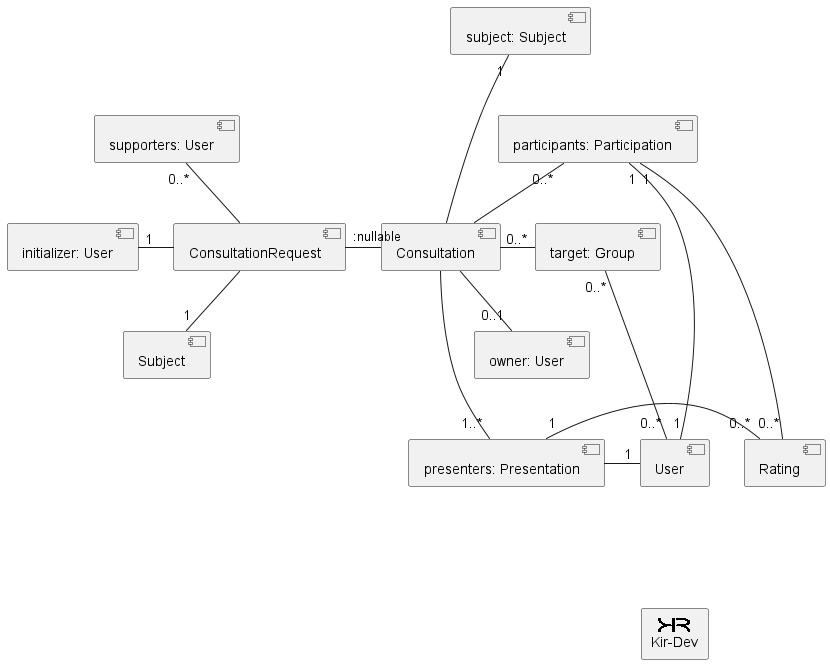
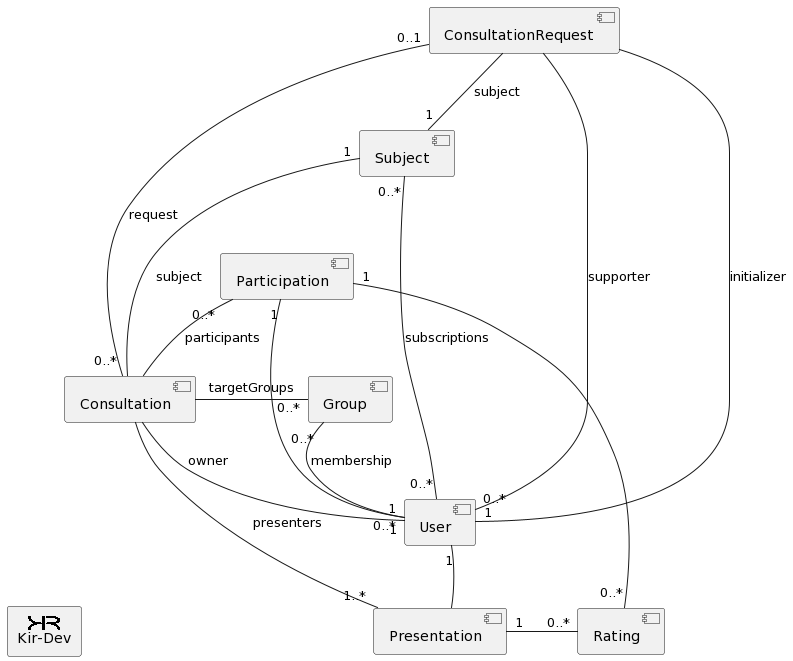
konzi with request validation (#134)
* additional validation

* uml update xd

diff --git a/src/consultations/consultations.controller.ts b/src/consultations/consultations.controller.ts
@@ -137,7 +137,10 @@ export class ConsultationsController {
     @Body() createConsultationDto: CreateConsultationDto,
     @CurrentUser() user: UserEntity,
   ): Promise<ConsultationEntity> {
-    if (createConsultationDto.startDate >= createConsultationDto.endDate) {
+    if (
+      new Date(createConsultationDto.startDate) >=
+      new Date(createConsultationDto.endDate)
+    ) {
       throw new HttpException('Érvénytelen dátum!', HttpStatus.BAD_REQUEST)
     }
     if (createConsultationDto.requestId) {
@@ -150,6 +153,12 @@ export class ConsultationsController {
       ) {
         throw new HttpException(
           'Érvénytelen konzi kérés!',
+          HttpStatus.BAD_REQUEST,
+        )
+      }
+      if (new Date(createConsultationDto.startDate) > request.expiryDate) {
+        throw new HttpException(
+          'A konzi később kezdődne, mint a megvalósított kérés határideje!',
           HttpStatus.BAD_REQUEST,
         )
       }
@@ -171,7 +180,10 @@ export class ConsultationsController {
     @Param('id', ParseIntPipe) id: number,
     @Body() updateConsultationDto: UpdateConsultationDto,
   ): Promise<ConsultationEntity> {
-    if (updateConsultationDto.startDate >= updateConsultationDto.endDate) {
+    if (
+      new Date(updateConsultationDto.startDate) >=
+      new Date(updateConsultationDto.endDate)
+    ) {
       throw new HttpException('Érvénytelen dátum!', HttpStatus.BAD_REQUEST)
     }
     if (updateConsultationDto.requestId) {
@@ -184,6 +196,12 @@ export class ConsultationsController {
       ) {
         throw new HttpException(
           'Érvénytelen konzi kérés!',
+          HttpStatus.BAD_REQUEST,
+        )
+      }
+      if (new Date(updateConsultationDto.startDate) > request.expiryDate) {
+        throw new HttpException(
+          'A konzi később kezdődne, mint a megvalósított kérés határideje!',
           HttpStatus.BAD_REQUEST,
         )
       }
